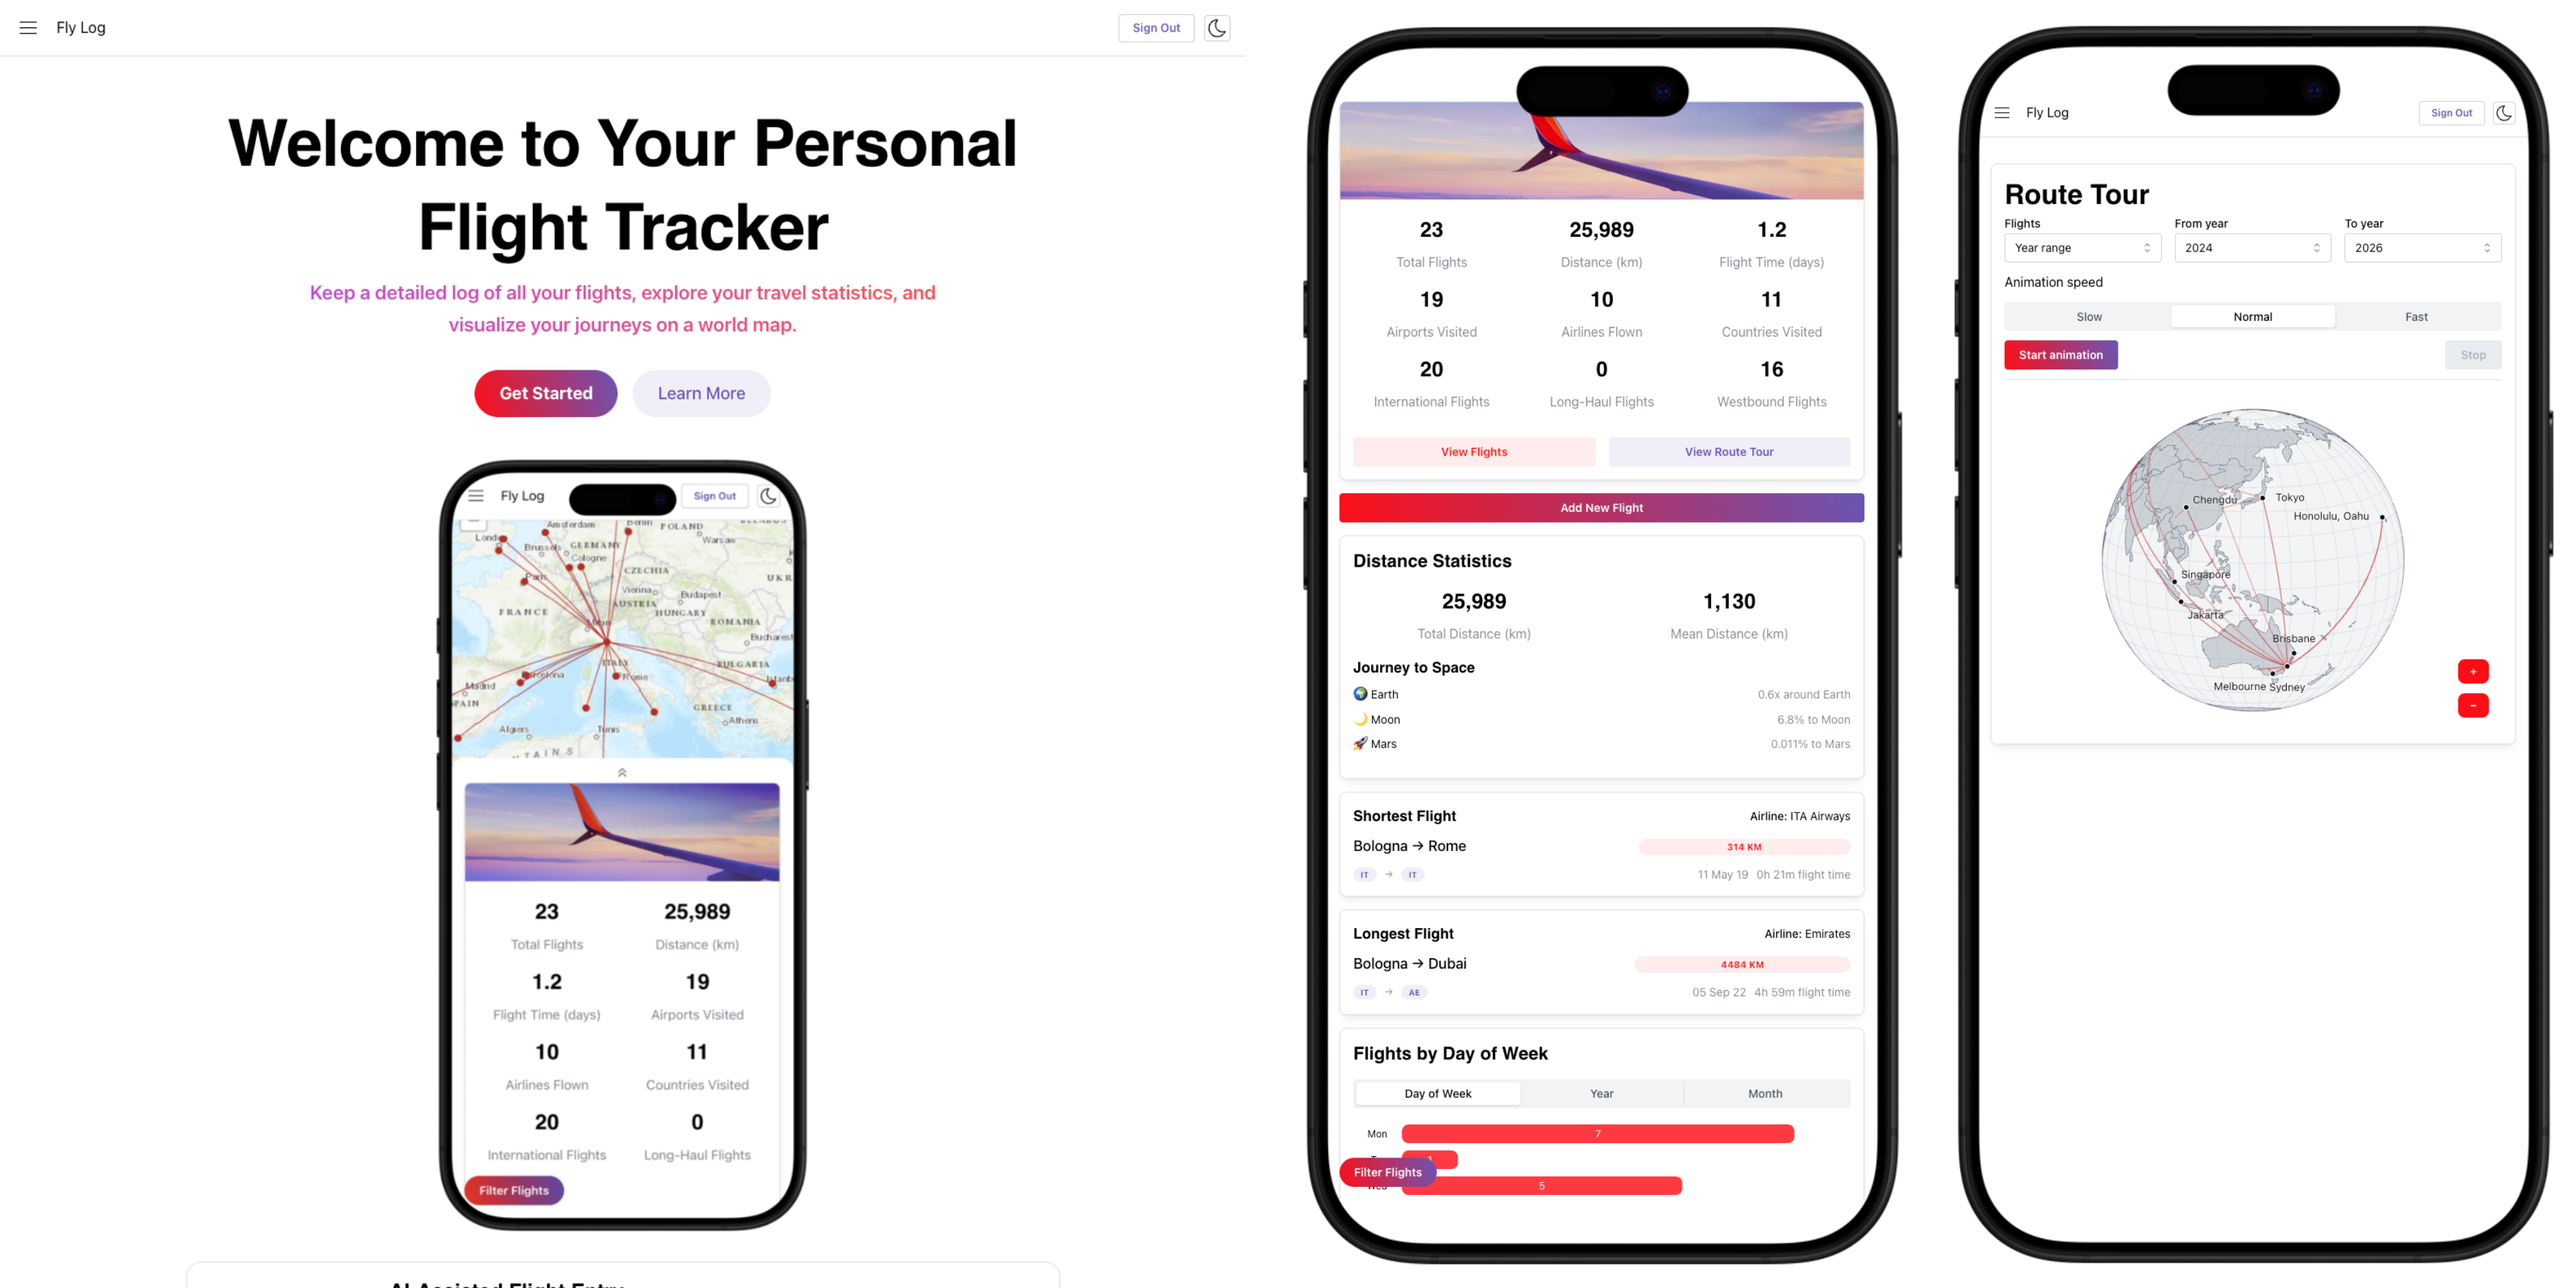
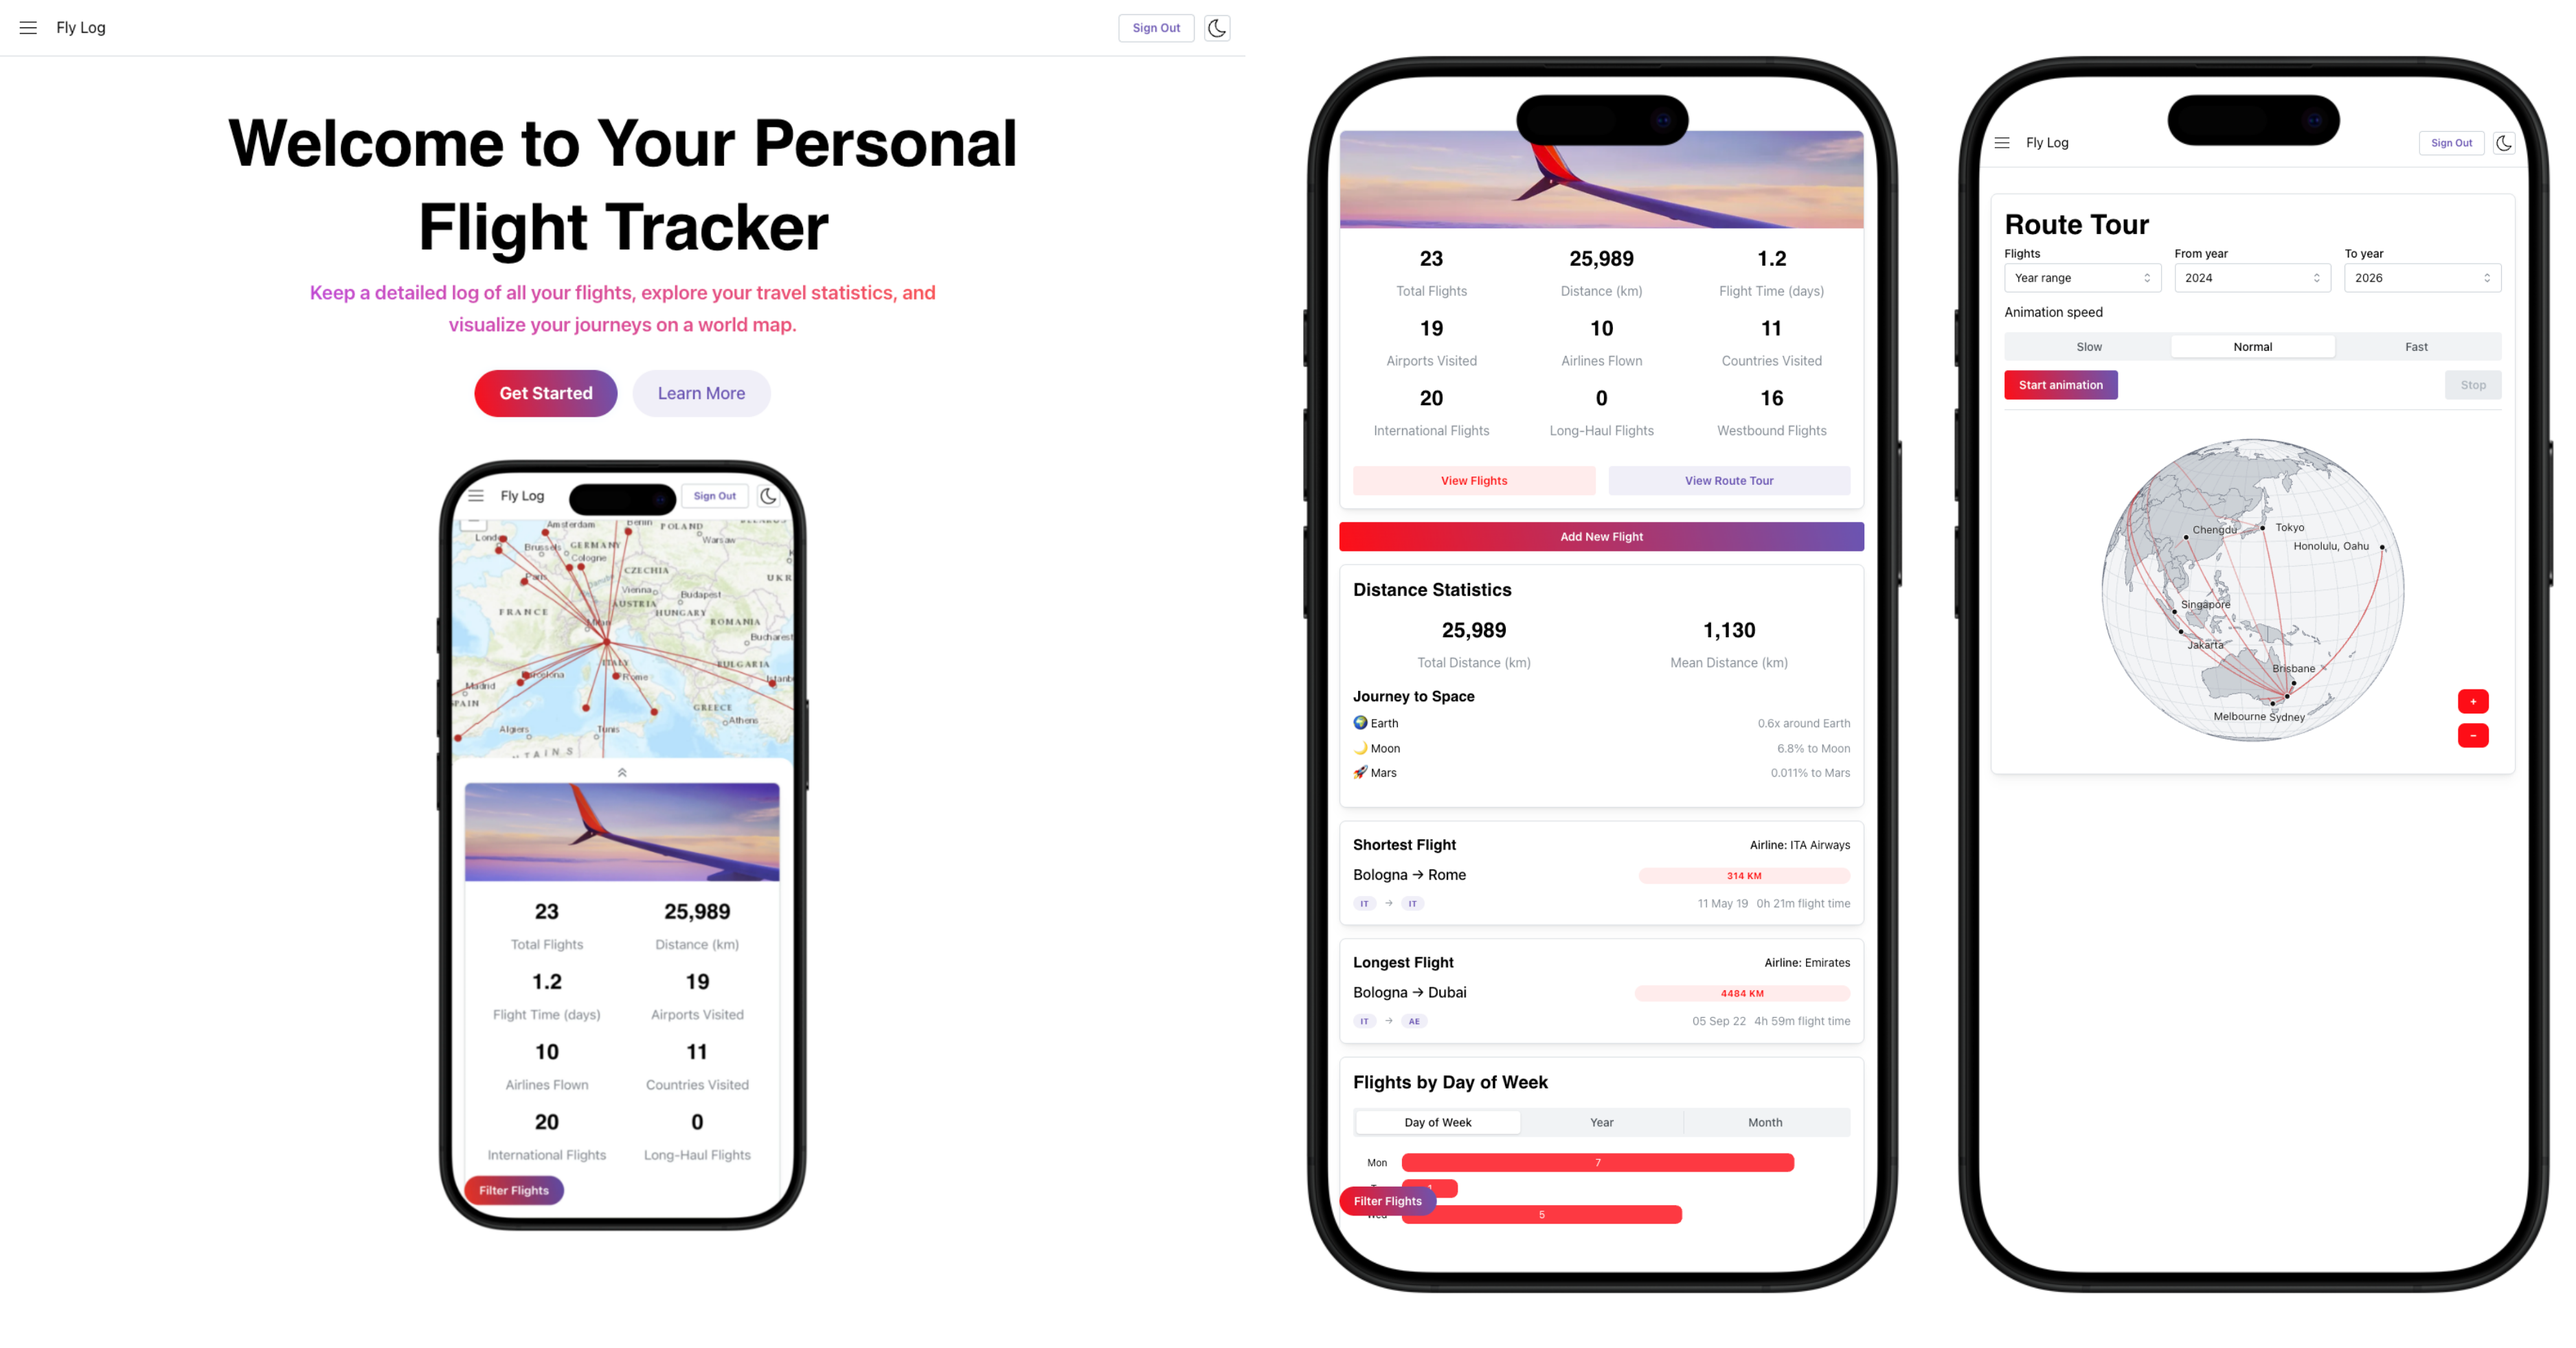
refactor: enhance meta descriptions for SEO and social sharing in index.html

diff --git a/index.html b/index.html
@@ -5,7 +5,7 @@
     <link rel="icon" type="image/png" href="/flylog.png" />
     <meta name="viewport" content="width=device-width, initial-scale=1.0" />
     <title>Fly-Log</title>
-    <meta name="description" content="Fly-Log: Track, analyze, and explore your flights with ease." />
+    <meta name="description" content="Fly-Log is your personal flight logbook and travel analytics platform. Effortlessly track your flights, visualize your journeys on interactive maps, and discover unique travel statistics. Whether you're a frequent flyer or an aviation enthusiast, Fly-Log helps you explore your travel history and gain insights into your adventures." />
     <meta name="theme-color" content="#228be6" />
     <link rel="manifest" href="/manifest.json" />
     <!-- SEO and Social Meta Tags -->
@@ -15,13 +15,13 @@
 
     <!-- Open Graph for social sharing -->
     <meta property="og:title" content="Fly-Log" />
-    <meta property="og:description" content="Track, analyze, and explore your flights with ease." />
+    <meta property="og:description" content="Fly-Log is a modern flight logbook and travel analytics platform. Log your flights, analyze your travel patterns, and visualize your journeys with interactive maps and detailed statistics. Join a community of travelers and aviation fans exploring their flight history in new ways." />
     <meta property="og:image" content="https://fly-log.netlify.app/flylog.png" />
 
     <!-- Twitter Card -->
     <meta name="twitter:card" content="summary" />
     <meta name="twitter:title" content="Fly-Log" />
-    <meta name="twitter:description" content="Track, analyze, and explore your flights with ease." />
+    <meta name="twitter:description" content="Fly-Log lets you track your flights, visualize your travel history, and discover unique travel stats. Perfect for frequent flyers and aviation lovers. Explore your journeys and share your adventures!" />
     <meta name="twitter:image" content="https://fly-log.netlify.app/flylog.png" />
 
     <!-- Google Site Verification -->
